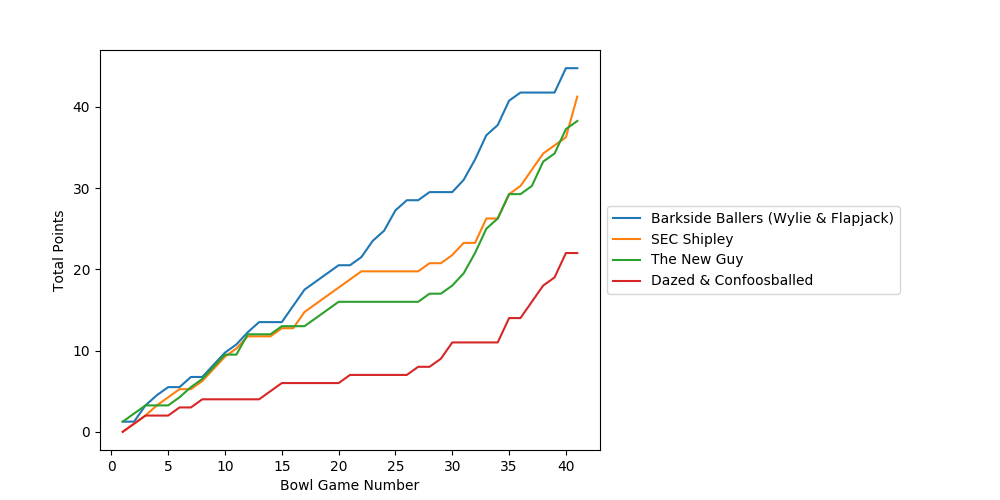
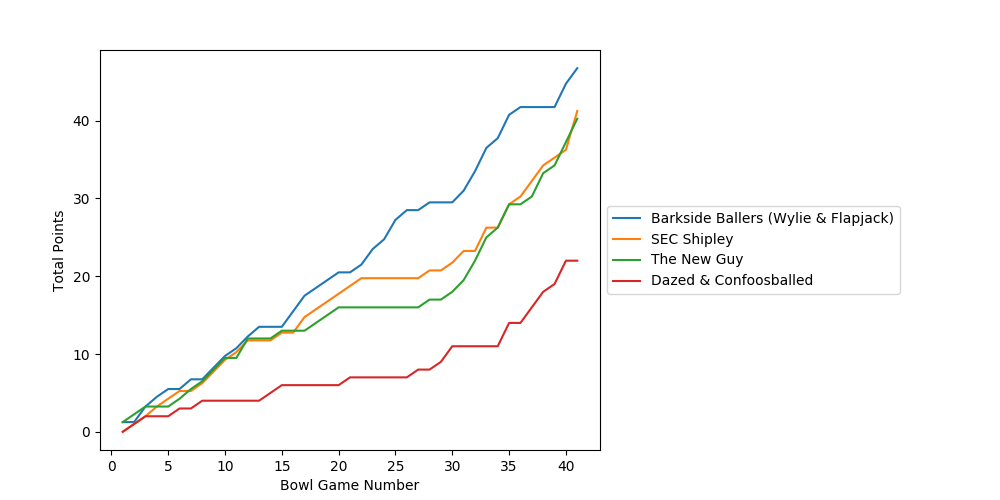
final update for 2023-2024

diff --git a/bowl_pool/2023-2024/rankings.html b/bowl_pool/2023-2024/rankings.html
@@ -364,29 +364,29 @@ ul.auto-toc {
 
 
 <div class="line-block">
-<div class="line"><em>Last updated:  2024-01-02 10:49:42</em></div>
+<div class="line"><em>Last updated:  2024-01-09 08:30:37</em></div>
 <div class="line"><em>Last bowl scored:  Sugar (Texas vs. Washington)</em></div>
 </div>
 <div class="line-block">
-<div class="line">1. <strong>Barkside Ballers (Wylie &amp; Flapjack) 44.75</strong></div>
+<div class="line">1. <strong>Barkside Ballers (Wylie &amp; Flapjack) 46.75</strong></div>
 <div class="line">2. <strong>SEC Shipley 41.25</strong></div>
-<div class="line">3. <strong>The New Guy 38.25</strong></div>
-<div class="line">4. bugabugaroo 38.0</div>
-<div class="line">5. Dbo 36.75</div>
-<div class="line">5. GlamKam 36.75</div>
-<div class="line">5. Sascha Picks Dogs 36.75</div>
+<div class="line">3. <strong>The New Guy 40.25</strong></div>
+<div class="line">4. Sascha Picks Dogs 38.75</div>
+<div class="line">5. bugabugaroo 38.0</div>
+<div class="line">6. Dbo 36.75</div>
+<div class="line">6. GlamKam 36.75</div>
 <div class="line">8. #MamaBear 36.0</div>
+<div class="line">9. COOKIES 34.5</div>
 <div class="line">9. Kylo Bad Dog 34.5</div>
-<div class="line">10. COOKIES 32.5</div>
-<div class="line">10. em&amp;em 32.5</div>
+<div class="line">11. em&amp;em 32.5</div>
 <div class="line">12. Manda Panda 31.5</div>
-<div class="line">13. Bear-in-Law 30.25</div>
-<div class="line">13. Sir Fluffy McFlufferson 30.25</div>
-<div class="line">15. LadyLonghorn 29.75</div>
-<div class="line">15. MamaDAWG 29.75</div>
-<div class="line">17. Rando Cal Rece Ian 29.5</div>
-<div class="line">18. Badgers Rock! 29.25</div>
-<div class="line">18. WD50 29.25</div>
+<div class="line">13. Badgers Rock! 31.25</div>
+<div class="line">14. Bear-in-Law 30.25</div>
+<div class="line">14. Sir Fluffy McFlufferson 30.25</div>
+<div class="line">16. LadyLonghorn 29.75</div>
+<div class="line">16. MamaDAWG 29.75</div>
+<div class="line">18. Rando Cal Rece Ian 29.5</div>
+<div class="line">19. WD50 29.25</div>
 <div class="line">20. Aggie Austin 28.75</div>
 <div class="line">21. Big 12 Bibby 27.75</div>
 <div class="line">22. <strong>Dazed &amp; Confoosballed 22.0</strong></div>

diff --git a/bowl_pool/2023-2024/results.html b/bowl_pool/2023-2024/results.html
@@ -1572,6 +1572,34 @@ ul.auto-toc {
 <td>0.0</td>
 <td>0.0</td>
 </tr>
+<tr><td>B1</td>
+<td>Who will win the National Championship?</td>
+<td>&nbsp;</td>
+<td>&nbsp;</td>
+<td>&nbsp;</td>
+<td>0.0</td>
+<td>0.0</td>
+<td>2.0</td>
+<td>2.0</td>
+<td>0.0</td>
+<td>0.0</td>
+<td>0.0</td>
+<td>2.0</td>
+<td>0.0</td>
+<td>0.0</td>
+<td>0.0</td>
+<td>0.0</td>
+<td>0.0</td>
+<td>0.0</td>
+<td>0.0</td>
+<td>0.0</td>
+<td>0.0</td>
+<td>2.0</td>
+<td>0.0</td>
+<td>0.0</td>
+<td>2.0</td>
+<td>0.0</td>
+</tr>
 <tr><td>B2</td>
 <td>Will more than 62 total points be scored in the Sugar Bowl (Texas vs. Washington)?</td>
 <td>&nbsp;</td>
@@ -1691,12 +1719,12 @@ ul.auto-toc {
 <td>&nbsp;</td>
 <td><strong>36.0</strong></td>
 <td><strong>28.75</strong></td>
-<td><strong>29.25</strong></td>
-<td><strong>44.75</strong></td>
+<td><strong>31.25</strong></td>
+<td><strong>46.75</strong></td>
 <td><strong>30.25</strong></td>
 <td><strong>27.75</strong></td>
 <td><strong>38.0</strong></td>
-<td><strong>32.5</strong></td>
+<td><strong>34.5</strong></td>
 <td><strong>22.0</strong></td>
 <td><strong>36.75</strong></td>
 <td><strong>32.5</strong></td>
@@ -1706,10 +1734,10 @@ ul.auto-toc {
 <td><strong>29.75</strong></td>
 <td><strong>31.5</strong></td>
 <td><strong>29.5</strong></td>
-<td><strong>36.75</strong></td>
+<td><strong>38.75</strong></td>
 <td><strong>41.25</strong></td>
 <td><strong>30.25</strong></td>
-<td><strong>38.25</strong></td>
+<td><strong>40.25</strong></td>
 <td><strong>29.25</strong></td>
 </tr>
 </tbody>

diff --git a/bowl_pool/2023-2024/index.html b/bowl_pool/2023-2024/index.html
@@ -365,7 +365,7 @@ ul.auto-toc {
 
 <p><strong>2023-2024 Bowl Pool</strong></p>
 <div class="line-block">
-<div class="line"><em>Last updated:  2024-01-02 10:49:42</em></div>
+<div class="line"><em>Last updated:  2024-01-09 08:30:37</em></div>
 <div class="line"><em>Last bowl scored:  Sugar (Texas vs. Washington)</em></div>
 </div>
 <ul class="simple">
